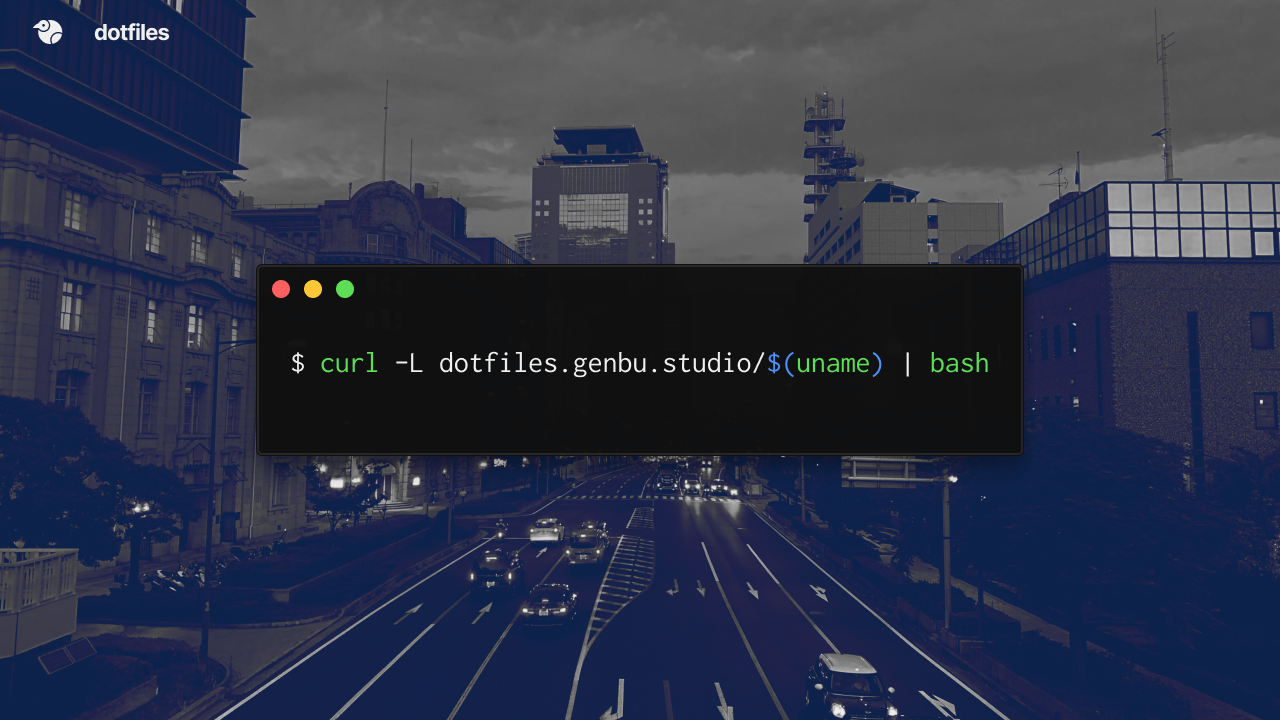
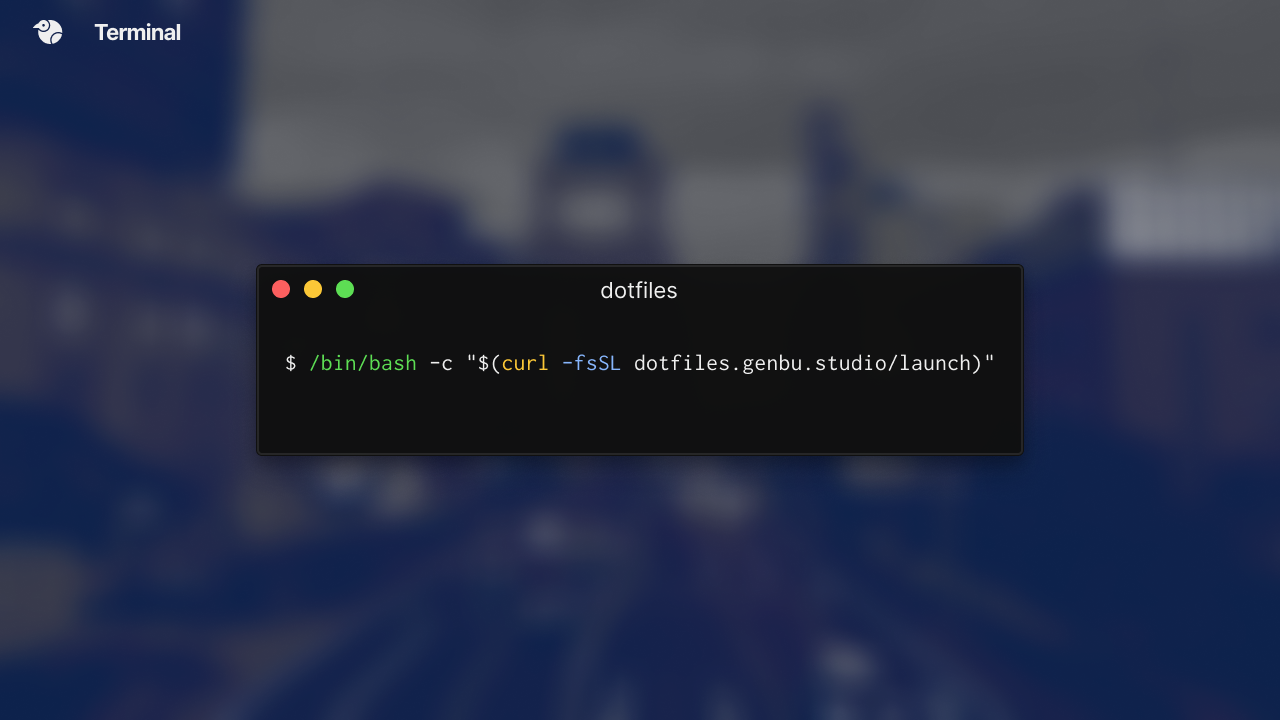
インストール方法を変更

diff --git a/README.md b/README.md
@@ -10,7 +10,7 @@
 
 ## インストール方法
 ```shell
-$ curl -L dotfiles.genbu.studio/$(uname) | bash
+$ /bin/bash -c "$(curl -fsSL dotfiles.genbu.studio/launch)"
 ```
 
 ## 動作環境
